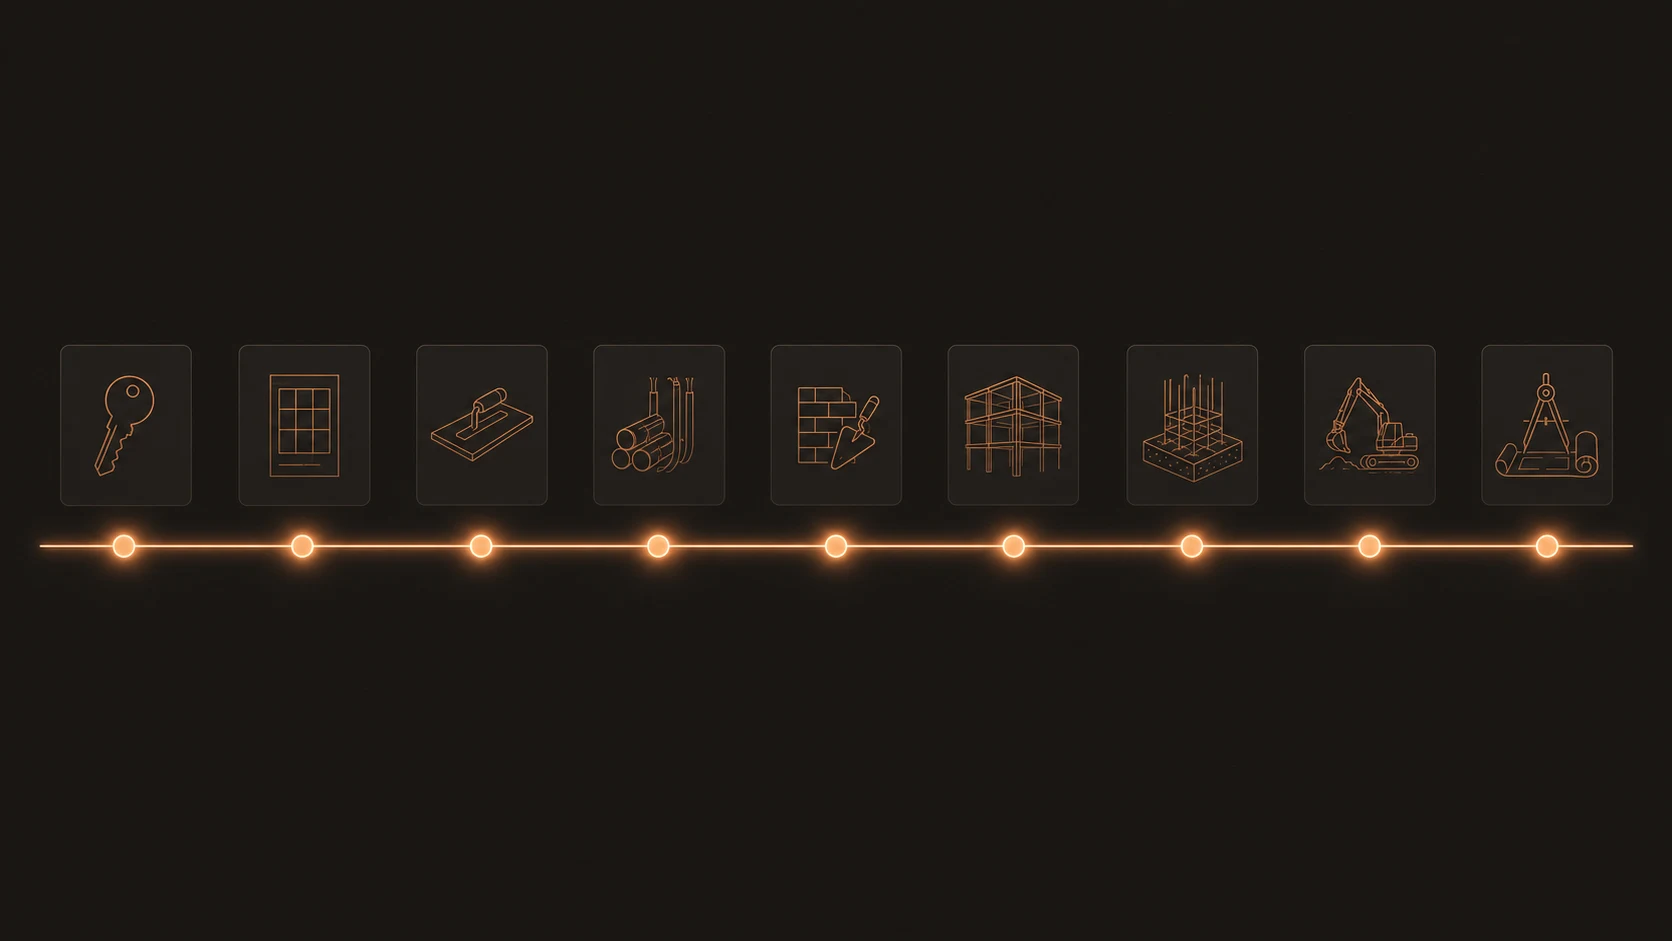
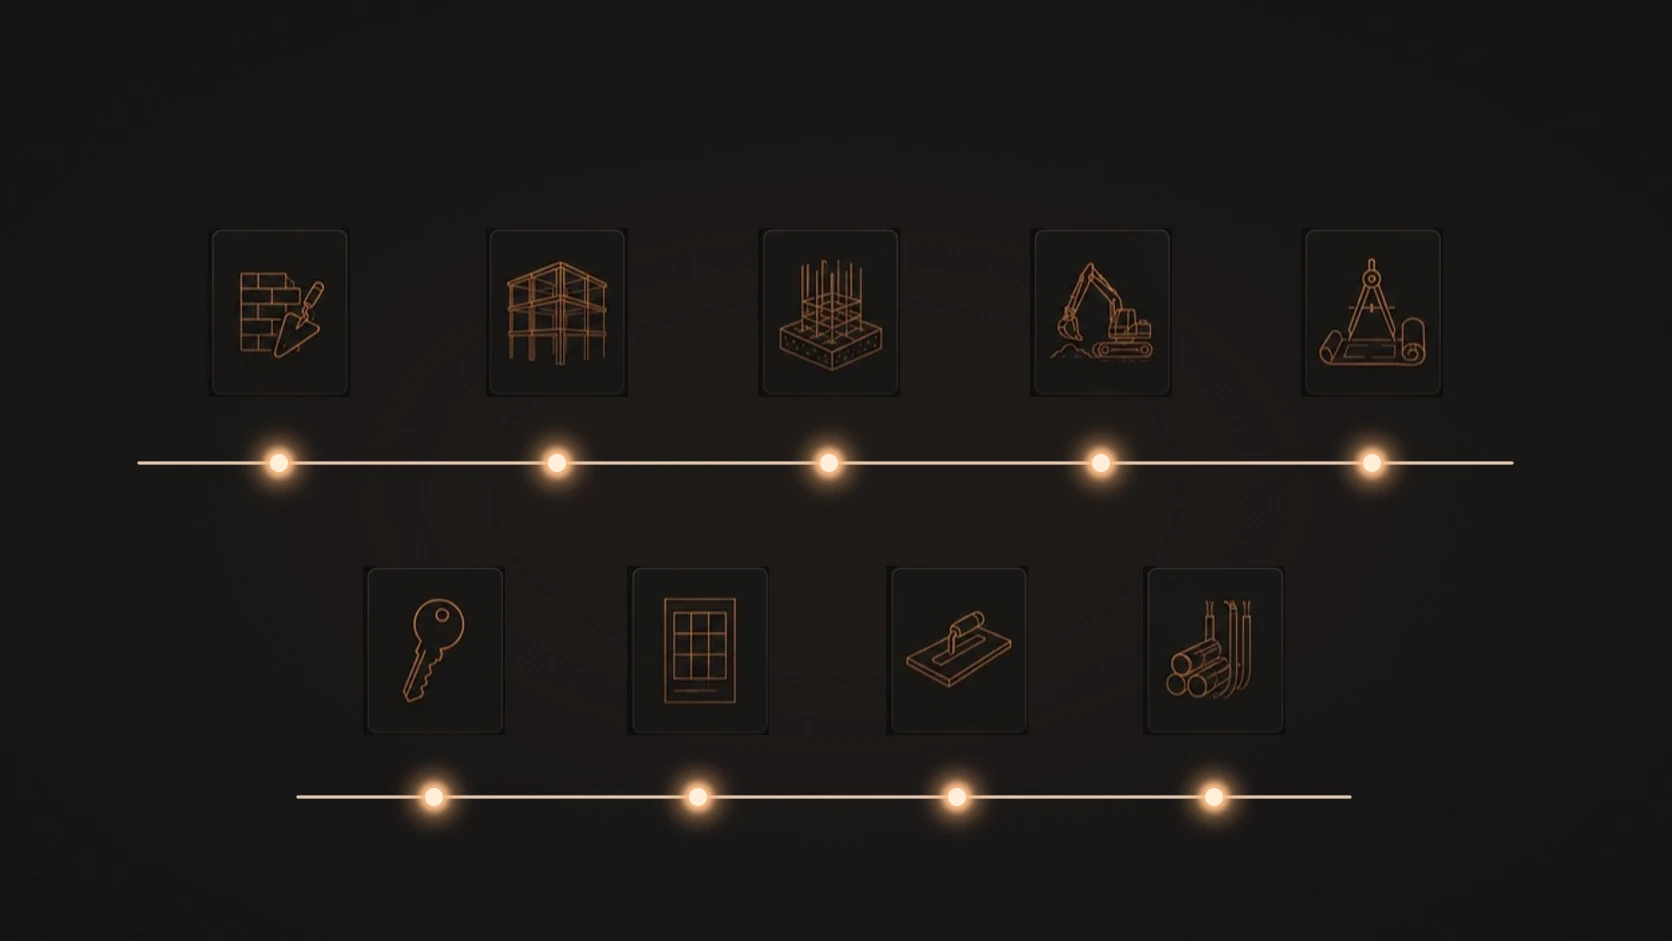
compact construction stages timeline hybrid

diff --git a/src/styles/global.css b/src/styles/global.css
@@ -3924,8 +3924,10 @@ details p {
 
 .stage-timeline-copy {
   display: grid;
-  max-width: 48rem;
+  max-width: 54rem;
   gap: var(--space-3);
+  margin-inline: auto;
+  text-align: center;
 }
 
 .stage-timeline-copy .content-eyebrow {
@@ -3941,19 +3943,16 @@ details p {
 }
 
 .stage-timeline-visual {
+  overflow: hidden;
   width: 100%;
-  max-width: 72rem;
+  max-width: min(100%, 58rem);
   margin-inline: auto;
-}
-
-.stage-timeline-visual picture,
-.stage-timeline-visual img {
-  display: block;
-}
-
-.stage-timeline-visual img {
-  width: 100%;
-  height: auto;
+  border: 1px solid color-mix(in srgb, var(--claude-orange) 18%, var(--border));
+  border-radius: 1.125rem;
+  background: #11100f;
+  box-shadow:
+    inset 0 1px 0 color-mix(in srgb, var(--surface) 12%, transparent),
+    0 1.5rem 3rem -2.15rem color-mix(in srgb, var(--foreground) 48%, transparent);
 }
 
 /* ریل عمودی مراحل — ستونفقرات مسی متصلکننده ۹ مرحله */
@@ -4051,7 +4050,7 @@ details p {
   }
 
   .stage-timeline-visual {
-    max-width: min(100%, 26rem);
+    max-width: min(100%, 30rem);
   }
 }
 